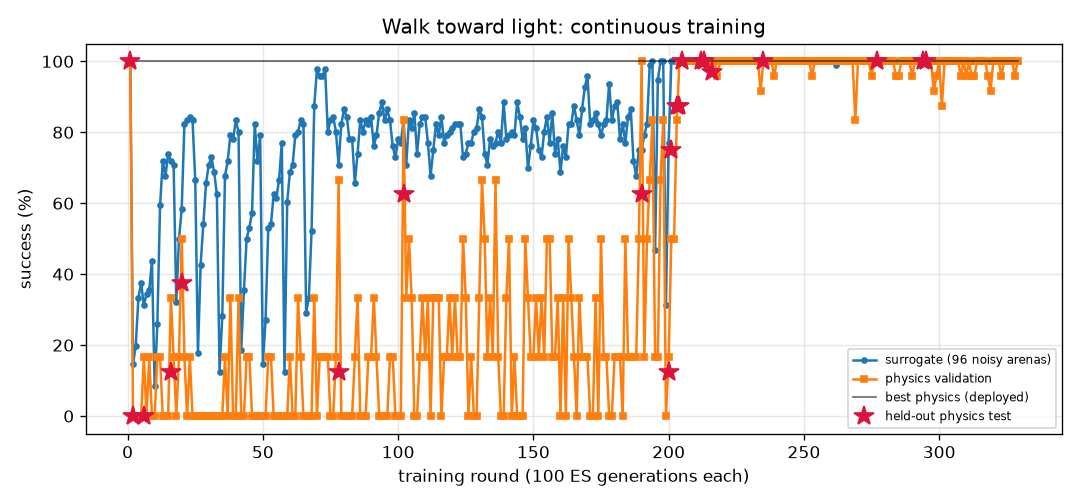
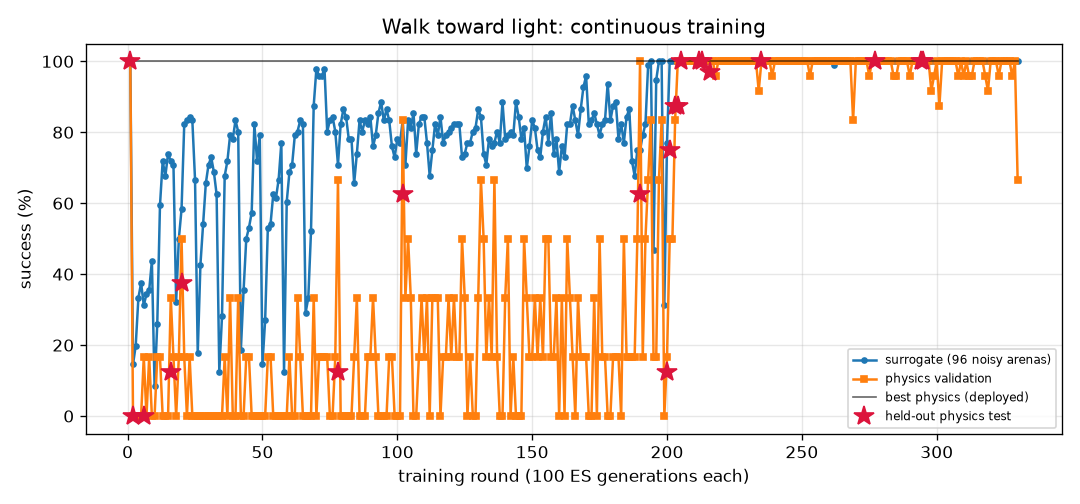
FlyLab: continuous training progress
- walk_forward: optimal, physics val 100% of 24, round 155
- turn: optimal, physics val 100% of 24, round 605
- goto: optimal, physics val 100% of 24, round 145
- odor_seek: optimal, physics val 100% of 24, round 130
- odor_avoid: optimal, physics val 100% of 24, round 585
- light_seek: optimal, physics val 100% of 24, round 330
- light_avoid: optimal, physics val 100% of 24, round 319

diff --git a/projects/09_flylab/training/light_seek/REPORT.md b/projects/09_flylab/training/light_seek/REPORT.md
@@ -1,14 +1,14 @@
 # Walk toward light (`light_seek`) — training report
 
-*Auto-generated by `train_brains.py`, last updated 2026-10-22T21:11:43.*
+*Auto-generated by `train_brains.py`, last updated 2026-10-22T21:22:54.*
 
 ![curve](curve.png)
 
 | | |
 |---|---|
-| rounds | 329 |
-| ES generations | 32900 |
-| physics runs | 4744 |
+| rounds | 330 |
+| ES generations | 33000 |
+| physics runs | 4768 |
 | status | **optimal** |
 | best brain | round 295: physics validation **100%** on 24 arenas, surrogate 100% |
 | held-out physics test | **100%** on 32 unseen arenas (95% CI 89%-100%) (errors: [0.58, 0.62, 0.61, 0.63, 0.65, 0.65, 0.73, 0.55, 0.64, 0.59, 0.59, 0.58, 0.69, 0.61, 0.59, 0.6, 0.6, 0.63, 0.59, 0.64, 0.61, 1.11, 0.62, 0.58, 0.58, 0.58, 0.67, 0.63, 0.58, 0.66, 0.67, 0.59]) |
@@ -17,7 +17,6 @@ Physics error per arena: mm from target at the end (< 1.5 and standing still = s
 
 | round | level | gens | sigma | surrogate | physics val | val errors | test | note |
 |---:|---:|---:|---:|---:|---:|---|---:|---|
-| 290 | 3 | 29000 | 0.024 | 100% | 96% | [0.46, 0.53, 0.57, 0.54, 8.54, 0.46, 0.47, 0.46, 0.54, 0.48, 0.51, 0.47, 0.48, 0.45, 0.46, 0.47, 0.45, 0.45, 0.59, 0.93, 0.45, 0.56, 0.53, 0.56] |  |  |
 | 291 | 3 | 29100 | 0.024 | 100% | 100% | [0.54, 0.64, 0.57, 0.61, 0.53, 0.53, 0.56, 0.54, 0.54, 0.57, 0.52, 0.55, 0.52, 0.56, 0.53, 0.58, 0.64, 0.6, 0.53, 0.58, 0.58, 0.56, 0.53, 0.53] |  |  |
 | 292 | 3 | 29200 | 0.024 | 100% | 100% | [0.57, 0.62, 0.49, 0.73, 0.54, 0.73, 0.58, 0.48, 0.63, 0.51, 0.5, 0.59, 0.58, 0.49, 0.49, 0.64, 0.95, 0.57, 0.54, 0.64, 0.51, 0.56, 0.49, 0.55] |  |  |
 | 293 | 3 | 29300 | 0.024 | 100% | 100% | [0.51, 0.64, 0.57, 0.5, 0.52, 0.68, 0.5, 0.54, 1.11, 0.7, 0.52, 0.65, 0.6, 0.59, 0.56, 0.56, 0.5, 0.53, 0.58, 0.5, 0.49, 0.52, 0.59, 0.58] |  | restart from best |
@@ -57,3 +56,4 @@ Physics error per arena: mm from target at the end (< 1.5 and standing still = s
 | 327 | 3 | 32700 | 0.024 | 100% | 100% | [1.0, 0.58, 0.5, 0.58, 0.5, 0.54, 0.54, 0.67, 0.52, 0.53, 0.55, 0.51, 0.66, 0.55, 0.55, 0.5, 0.59, 0.57, 0.51, 0.54, 0.62, 0.59, 0.5, 0.58] |  | restart from best |
 | 328 | 3 | 32800 | 0.024 | 100% | 96% | [0.62, 1.19, 0.97, 0.74, 0.71, 1.51, 0.67, 1.28, 0.97, 0.7, 1.02, 1.46, 0.62, 0.64, 1.02, 0.61, 1.01, 0.8, 1.38, 0.61, 1.3, 1.31, 0.67, 0.94] |  |  |
 | 329 | 3 | 32900 | 0.024 | 100% | 100% | [0.61, 0.67, 0.93, 1.02, 0.63, 0.63, 0.7, 0.98, 0.91, 0.69, 0.57, 0.65, 0.71, 1.04, 0.98, 0.64, 0.96, 1.06, 0.67, 0.91, 0.65, 1.04, 1.24, 0.67] |  |  |
+| 330 | 3 | 33000 | 0.024 | 100% | 67% | [1.89, 1.07, 0.66, 3.75, 0.72, 0.82, 1.22, 1.35, 0.73, 0.66, 1.67, 0.68, 0.72, 3.54, 2.77, 0.59, 2.13, 1.88, 0.58, 0.98, 0.66, 4.15, 0.67, 0.98] |  |  |

diff --git a/projects/09_flylab/training/goto/REPORT.md b/projects/09_flylab/training/goto/REPORT.md
@@ -1,14 +1,14 @@
 # Go to a location (`goto`) — training report
 
-*Auto-generated by `train_brains.py`, last updated 2026-10-22T21:07:19.*
+*Auto-generated by `train_brains.py`, last updated 2026-10-22T21:18:53.*
 
 ![curve](curve.png)
 
 | | |
 |---|---|
-| rounds | 144 |
-| ES generations | 14400 |
-| physics runs | 3342 |
+| rounds | 145 |
+| ES generations | 14500 |
+| physics runs | 3366 |
 | status | **optimal** |
 | best brain | round 80: physics validation **100%** on 24 arenas, surrogate 100% |
 | held-out physics test | **100%** on 32 unseen arenas (95% CI 89%-100%) (errors: [0.36, 0.41, 0.3, 0.45, 0.32, 0.33, 0.33, 0.31, 0.35, 0.36, 0.39, 0.36, 0.28, 0.31, 0.4, 0.39, 0.34, 0.39, 0.3, 0.34, 0.36, 0.36, 0.44, 0.34, 0.3, 0.33, 0.4, 0.33, 0.29, 0.43, 0.43, 0.39]) |
@@ -17,7 +17,6 @@ Physics error per arena: mm from target at the end (< 1.5 and standing still = s
 
 | round | level | gens | sigma | surrogate | physics val | val errors | test | note |
 |---:|---:|---:|---:|---:|---:|---|---:|---|
-| 105 | 3 | 10500 | 0.024 | 99% | 100% | [0.66, 0.6, 0.47, 0.54, 0.46, 0.52, 0.62, 0.55, 0.6, 0.47, 0.48, 0.55, 0.62, 0.47, 0.48, 0.5, 0.65, 0.52, 0.45, 0.59, 0.48, 0.49, 0.66, 0.54] |  |  |
 | 106 | 3 | 10600 | 0.025 | 100% | 100% | [0.51, 0.53, 0.36, 0.41, 0.37, 0.4, 0.47, 0.44, 0.46, 0.39, 0.36, 0.39, 0.47, 0.4, 0.47, 0.44, 0.53, 0.4, 0.37, 0.45, 0.42, 0.38, 0.5, 0.41] |  |  |
 | 107 | 3 | 10700 | 0.024 | 100% | 100% | [0.77, 0.77, 0.61, 0.68, 0.62, 0.67, 0.75, 0.71, 0.76, 0.63, 0.61, 0.63, 0.76, 0.64, 0.68, 0.64, 0.77, 0.69, 0.61, 0.73, 0.65, 0.61, 0.78, 0.68] |  |  |
 | 108 | 3 | 10800 | 0.024 | 100% | 100% | [0.49, 0.49, 0.37, 0.44, 0.34, 0.42, 0.45, 0.38, 0.5, 0.37, 0.36, 0.43, 0.5, 0.39, 0.42, 0.4, 0.52, 0.41, 0.35, 0.47, 0.4, 0.36, 0.52, 0.44] |  | restart from best |
@@ -57,3 +56,4 @@ Physics error per arena: mm from target at the end (< 1.5 and standing still = s
 | 142 | 3 | 14200 | 0.025 | 99% | 100% | [0.55, 0.51, 0.36, 0.47, 0.38, 0.41, 0.47, 0.51, 0.5, 0.42, 0.4, 0.46, 0.54, 0.41, 0.5, 0.48, 0.59, 0.44, 0.4, 0.53, 0.45, 0.43, 0.58, 0.45] |  |  |
 | 143 | 3 | 14300 | 0.025 | 99% | 100% | [0.55, 0.54, 0.54, 0.44, 0.39, 0.41, 0.52, 0.47, 0.47, 0.41, 0.39, 0.42, 0.49, 0.41, 0.49, 0.5, 0.58, 0.44, 0.39, 0.45, 0.46, 0.43, 0.53, 0.42] |  |  |
 | 144 | 3 | 14400 | 0.025 | 98% | 100% | [0.48, 0.49, 0.48, 0.38, 0.34, 0.36, 0.42, 0.43, 0.42, 0.35, 0.33, 0.38, 0.43, 0.37, 0.43, 0.42, 0.5, 0.37, 0.33, 0.41, 0.39, 0.36, 0.48, 0.38] |  | restart from best |
+| 145 | 3 | 14500 | 0.024 | 97% | 100% | [0.52, 0.46, 0.33, 0.42, 0.33, 0.37, 0.51, 0.42, 0.45, 0.36, 0.34, 0.41, 0.47, 0.34, 0.39, 0.39, 0.5, 0.41, 0.35, 0.46, 0.37, 0.38, 0.5, 0.4] |  |  |

diff --git a/projects/09_flylab/training/TRAINING.md b/projects/09_flylab/training/TRAINING.md
@@ -1,6 +1,6 @@
 # FlyLab brains — continuous training log
 
-*Auto-generated by `train_brains.py`, last updated 2026-10-22T21:11:43.*
+*Auto-generated by `train_brains.py`, last updated 2026-10-22T21:22:54.*
 
 Every skill has its own brain and its own training process: surrogate ES rounds, physics validation in MuJoCo, keep-the-best selection, and a held-out physics test that is never used for selection. See each skill's report for its full round-by-round history. Mastery is progressive: passing a level (100% physics validation, >=95% surrogate) doubles the validation and test arena sets; a brain is **optimal** once it holds up at level 3 (>=95% of 24 validation arenas) AND scores >=90% on the 32 held-out test arenas. Test columns show 95% Wilson confidence intervals.
 
@@ -8,8 +8,8 @@ Every skill has its own brain and its own training process: surrogate ES rounds,
 |---|---:|---:|---:|---:|---:|---:|---|
 | [Walk forward](walk_forward/REPORT.md) | 155 | 15500 | 3734 | 100% | 100% of 24 | 100% of 32 (CI 89-100%) | **optimal** |
 | [Turn in place](turn/REPORT.md) | 605 | 60500 | 14766 | 100% | 100% of 24 | 97% of 32 (CI 84-99%) | **optimal** |
-| [Go to a location](goto/REPORT.md) | 144 | 14400 | 3342 | 100% | 100% of 24 | 100% of 32 (CI 89-100%) | **optimal** |
+| [Go to a location](goto/REPORT.md) | 145 | 14500 | 3366 | 100% | 100% of 24 | 100% of 32 (CI 89-100%) | **optimal** |
 | [Find food by smell](odor_seek/REPORT.md) | 130 | 13000 | 2486 | 100% | 100% of 24 | 100% of 32 (CI 89-100%) | **optimal** |
 | [Escape a bad smell](odor_avoid/REPORT.md) | 585 | 58500 | 11346 | 97% | 100% of 24 | 97% of 32 (CI 84-99%) | **optimal** |
-| [Walk toward light](light_seek/REPORT.md) | 329 | 32900 | 4744 | 100% | 100% of 24 | 100% of 32 (CI 89-100%) | **optimal** |
+| [Walk toward light](light_seek/REPORT.md) | 330 | 33000 | 4768 | 100% | 100% of 24 | 100% of 32 (CI 89-100%) | **optimal** |
 | [Hide from light](light_avoid/REPORT.md) | 319 | 31900 | 7928 | 100% | 100% of 24 | 100% of 32 (CI 89-100%) | **optimal** |
